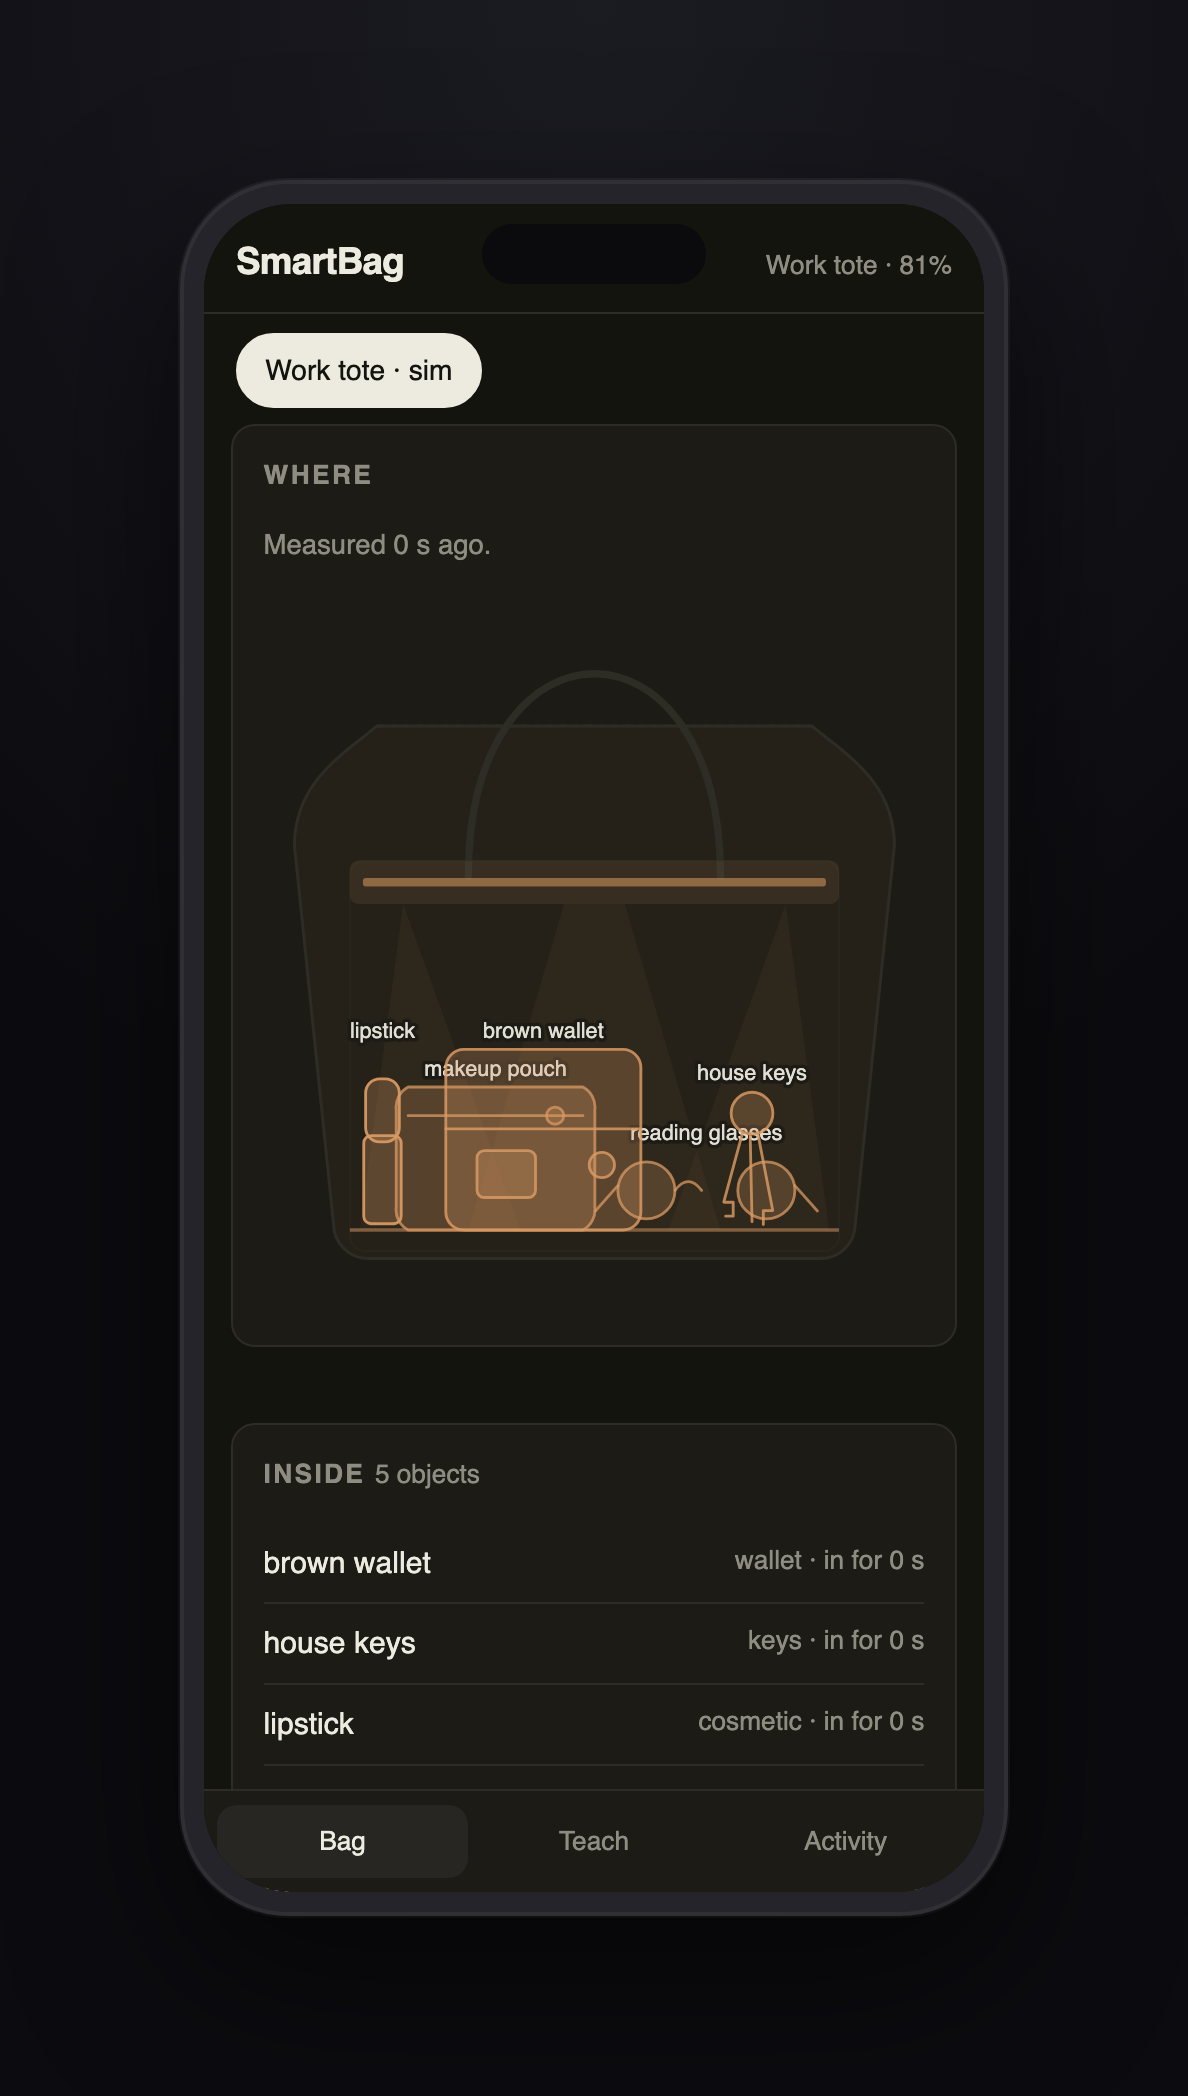
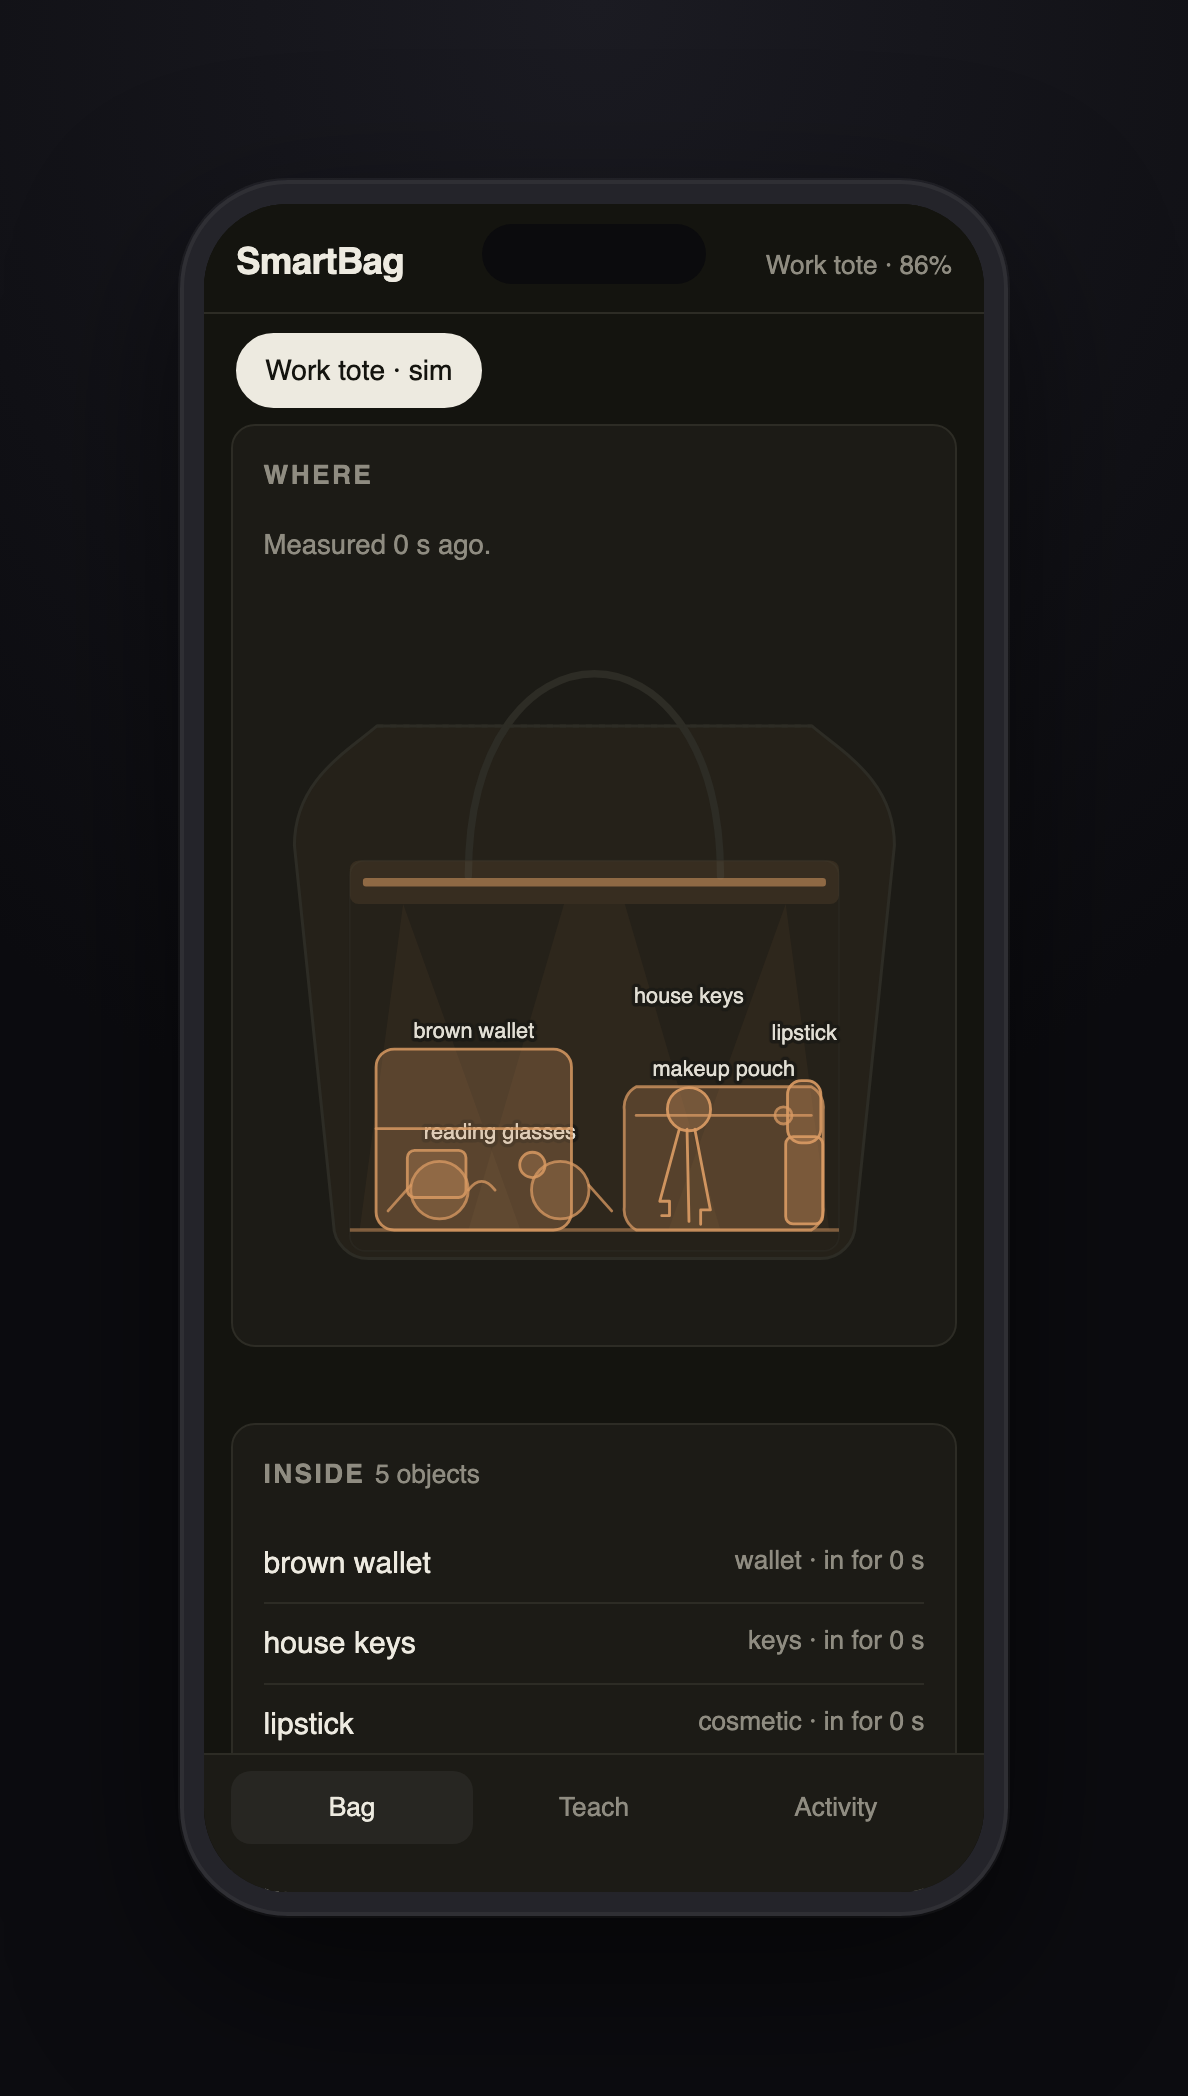
The tab bar was inside the screen's corner, and the corner was wrong too
Two defects at the same pixel. The bar had 7 px of bottom padding, which
puts what you tap deep inside a rounded corner's arc — the background
running to the edge is right and is what gets clipped, the controls must
sit above it. env(safe-area-inset-bottom) does not fix that on its own:
it is 0 in an iframe, 0 on the desktop and 0 on any phone without a home
indicator, so the clearance has to exist without it.

And the mock's screen had a 44 px radius inside a 54 px body with a 12 px
bezel, where the opening is 42. Two pixels of mismatch let the screen's
corner poke outside the curve the frame draws, which showed as a bright
sliver of the tab bar. Zero bright pixels left in that corner now.

diff --git a/app/style.css b/app/style.css
@@ -111,7 +111,7 @@ code { font-family: ui-monospace, SFMono-Regular, Menlo, monospace;
  * bottom show one panel at a time. No second implementation: the panels are the
  * same elements, and a wide screen still shows them all at once. */
 @media (max-width: 600px) {
-  body { padding: 0 0 4.6rem; max-width: none; }
+  body { padding: 0 0 5.6rem; max-width: none; }
   header {
     position: sticky; top: 0; z-index: 5; display: flex; flex-wrap: wrap;
     align-items: baseline; gap: 0 0.6rem; margin: 0; padding: 0.9rem 1rem 0.7rem;
@@ -146,11 +146,19 @@ code { font-family: ui-monospace, SFMono-Regular, Menlo, monospace;
   #status-panel dl { grid-template-columns: auto 1fr auto 1fr; font-size: 0.86rem; }
   #status-panel h2 { font-size: 0.72rem; }
 
+  /* ⛔ THE TAB PILL WAS INSIDE THE SCREEN'S CORNER. A phone's glass is rounded —
+     44 px of radius on the mock, and more on a real handset — and a bar with
+     7 px of bottom padding puts its content deep inside that arc, where the
+     corner cuts across it. The background running to the edges is right and is
+     what gets clipped; the things you tap must not be down there.
+     ⚠ env(safe-area-inset-bottom) does not save this: it is 0 in an iframe, 0
+     in a desktop browser, and 0 on any phone without a home indicator. The
+     clearance has to exist without it, with the inset added on top. */
   .tabs {
     position: fixed; left: 0; right: 0; bottom: 0; z-index: 6;
     display: grid; grid-template-columns: repeat(3, 1fr);
     background: var(--panel); border-top: 1px solid var(--line);
-    padding: 0.45rem 0.4rem calc(0.45rem + env(safe-area-inset-bottom));
+    padding: 0.5rem 0.85rem calc(1.5rem + env(safe-area-inset-bottom));
   }
   .tabs button {
     background: none; border: 0; color: var(--dim); font: inherit;

diff --git a/app/mock.html b/app/mock.html
@@ -48,7 +48,11 @@
                 inset 0 0 0 2px rgba(255,255,255,0.05);
   }
   .screen {
-    position: relative; width: 390px; height: 844px; border-radius: 44px;
+    /* ⚠ 42, not 44: the opening's radius is the body's 54 minus the 12 px of
+       bezel around it. Two pixels of mismatch let the corner of the screen poke
+       outside the curve the frame draws, which showed up as a bright sliver of
+       the tab bar at the bottom left. */
+    position: relative; width: 390px; height: 844px; border-radius: 42px;
     overflow: hidden; background: #14140f;
   }
   iframe { width: 390px; height: 844px; border: 0; display: block; }
